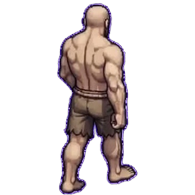
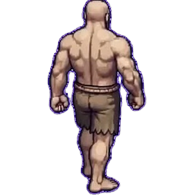
BUILD 418: NE mirrors working NW art (0c sheet did not work as NE)

diff --git a/index.html b/index.html
@@ -1,1 +1,1 @@
-<!doctype html><html lang="en"><head><!-- BUILD309-VIEWPORT-FIX-MARKER --><meta charset="UTF-8"><meta name="viewport" content="width=device-width, initial-scale=1.0, maximum-scale=1.0, user-scalable=no"><meta name="theme-color" content="#17362e"><link rel="icon" type="image/svg+xml" href="favicon.svg"><meta name="description" content="Explore Mosslight Crossing in the Adventure Game field journal."><title>Adventure Game — Mosslight Crossing</title></head><body><div id="root"></div><script>window.__AG_BUILD="417";(function(){var shown=false;function code(m){var h=0,s=window.__AG_BUILD+"|"+m;for(var i=0;i<s.length;i++){h=(Math.imul(h,31)+s.charCodeAt(i))|0;}return "AG"+window.__AG_BUILD+"-"+(h>>>0).toString(36).toUpperCase().padStart(6,"0").slice(-5);}function show(m,k){if(shown||window.__agBooted)return;shown=true;var d=document.createElement("div");d.id="ag-boot-crash";var p=document.createElement("div");p.className="ag-boot-panel";var t=document.createElement("div");t.className="ag-boot-title";t.textContent="\u26a0 GAME FAILED TO START";var c=document.createElement("div");c.className="ag-boot-code";c.textContent=code(String(m));var g=document.createElement("div");g.className="ag-boot-msg";g.textContent=String(m).slice(0,300);var n=document.createElement("div");n.className="ag-boot-kind";n.textContent=k;var b=document.createElement("button");b.textContent="Reload game";b.onclick=function(){location.reload();};p.appendChild(t);p.appendChild(c);p.appendChild(g);p.appendChild(n);p.appendChild(b);d.appendChild(p);document.body.appendChild(d);}window.addEventListener("error",function(e){if(e.target&&e.target!==window)return;show(e.message||"script error","boot error");},true);window.addEventListener("unhandledrejection",function(e){var r=e.reason;show((r&&(r.message||r))||"rejection","boot rejection");});setTimeout(function(){if(!window.__agBooted)show("The game did not finish loading in time.","load timeout");},20000);})();</script><style>#ag-boot-crash{position:fixed;inset:0;z-index:99999;background:#0d1a16;display:flex;align-items:center;justify-content:center;padding:24px}#ag-boot-crash .ag-boot-panel{max-width:420px;width:100%;background:#14261f;border:1px solid #2c4a3e;border-radius:12px;padding:24px;text-align:center;color:#e8f0e9;font-family:system-ui,sans-serif}#ag-boot-crash .ag-boot-title{font-size:20px;font-weight:800;letter-spacing:.5px}#ag-boot-crash .ag-boot-code{font-family:monospace;font-size:22px;color:#ffd75e;margin:12px 0;letter-spacing:1px}#ag-boot-crash .ag-boot-msg{font-size:13px;color:#b9c9bd;word-break:break-word}#ag-boot-crash .ag-boot-kind{font-size:11px;color:#7d8f83;margin-top:8px;text-transform:uppercase;letter-spacing:1px}#ag-boot-crash button{margin-top:16px;background:#e8a33d;border:0;border-radius:8px;padding:10px 22px;font-size:15px;font-weight:700;color:#231603;cursor:pointer}</style><script type="module" src="/src/main.tsx"></script></body></html>
+<!doctype html><html lang="en"><head><!-- BUILD309-VIEWPORT-FIX-MARKER --><meta charset="UTF-8"><meta name="viewport" content="width=device-width, initial-scale=1.0, maximum-scale=1.0, user-scalable=no"><meta name="theme-color" content="#17362e"><link rel="icon" type="image/svg+xml" href="favicon.svg"><meta name="description" content="Explore Mosslight Crossing in the Adventure Game field journal."><title>Adventure Game — Mosslight Crossing</title></head><body><div id="root"></div><script>window.__AG_BUILD="418";(function(){var shown=false;function code(m){var h=0,s=window.__AG_BUILD+"|"+m;for(var i=0;i<s.length;i++){h=(Math.imul(h,31)+s.charCodeAt(i))|0;}return "AG"+window.__AG_BUILD+"-"+(h>>>0).toString(36).toUpperCase().padStart(6,"0").slice(-5);}function show(m,k){if(shown||window.__agBooted)return;shown=true;var d=document.createElement("div");d.id="ag-boot-crash";var p=document.createElement("div");p.className="ag-boot-panel";var t=document.createElement("div");t.className="ag-boot-title";t.textContent="\u26a0 GAME FAILED TO START";var c=document.createElement("div");c.className="ag-boot-code";c.textContent=code(String(m));var g=document.createElement("div");g.className="ag-boot-msg";g.textContent=String(m).slice(0,300);var n=document.createElement("div");n.className="ag-boot-kind";n.textContent=k;var b=document.createElement("button");b.textContent="Reload game";b.onclick=function(){location.reload();};p.appendChild(t);p.appendChild(c);p.appendChild(g);p.appendChild(n);p.appendChild(b);d.appendChild(p);document.body.appendChild(d);}window.addEventListener("error",function(e){if(e.target&&e.target!==window)return;show(e.message||"script error","boot error");},true);window.addEventListener("unhandledrejection",function(e){var r=e.reason;show((r&&(r.message||r))||"rejection","boot rejection");});setTimeout(function(){if(!window.__agBooted)show("The game did not finish loading in time.","load timeout");},20000);})();</script><style>#ag-boot-crash{position:fixed;inset:0;z-index:99999;background:#0d1a16;display:flex;align-items:center;justify-content:center;padding:24px}#ag-boot-crash .ag-boot-panel{max-width:420px;width:100%;background:#14261f;border:1px solid #2c4a3e;border-radius:12px;padding:24px;text-align:center;color:#e8f0e9;font-family:system-ui,sans-serif}#ag-boot-crash .ag-boot-title{font-size:20px;font-weight:800;letter-spacing:.5px}#ag-boot-crash .ag-boot-code{font-family:monospace;font-size:22px;color:#ffd75e;margin:12px 0;letter-spacing:1px}#ag-boot-crash .ag-boot-msg{font-size:13px;color:#b9c9bd;word-break:break-word}#ag-boot-crash .ag-boot-kind{font-size:11px;color:#7d8f83;margin-top:8px;text-transform:uppercase;letter-spacing:1px}#ag-boot-crash button{margin-top:16px;background:#e8a33d;border:0;border-radius:8px;padding:10px 22px;font-size:15px;font-weight:700;color:#231603;cursor:pointer}</style><script type="module" src="/src/main.tsx"></script></body></html>

diff --git a/scripts/simulate.ts b/scripts/simulate.ts
@@ -3213,11 +3213,12 @@ import { inflateSync } from 'node:zlib';
     readPngRgba(`public/barbarian/${file}`); // must exist and decode
   }
   // BUILD 414: dedicated up-right/up-left diagonal art. bare/blue/bow gain
-  // BUILD 416: true diagonal art from the user's sheets. bare/blue/bow gain
-  // dedicated upright (NE, back-3/4) + upleft (NW, back-3/4) views, each with
-  // 9 walk frames + 1 idle; attacks still share the up frames (no diagonal
-  // attack sheets provided). The renderer selects them per-anim with fallback
-  // to up; sword has no diagonal art and must fall back to its up frames.
+  // BUILD 418: diagonal art. bare/blue/bow have a dedicated NW (upleft,
+  // back-3/4) view from the user's sheet (9 walk + 1 idle); NE (upright) is
+  // the exact horizontal mirror of NW (same convention as left/right).
+  // Attacks share the up frames (no diagonal attack sheets provided).
+  // The renderer selects them per-anim with fallback to up; sword has no
+  // diagonal art and must fall back to its up frames.
   {
     const { BARB_FRAMES, BARB_BOX } = await import('../src/game/iso/barbarian');
     for (const v of ['bare', 'blue', 'bow']) {
@@ -3240,6 +3241,18 @@ import { inflateSync } from 'node:zlib';
         `${v} must have upright/upleft layout boxes`);
       for (const f of [...ur['walk'], ...ul['walk'], ...ur['idle'], ...ul['idle']])
         readPngRgba(`public/${f}`);
+      // Pixel lock: NE frames are the horizontal mirror of the NW frames.
+      for (let i = 0; i < 9; i++) {
+        const a = readPngRgba(`public/barbarian/${v}_upleft_walk_${i}.png`);
+        const b = readPngRgba(`public/barbarian/${v}_upright_walk_${i}.png`);
+        assert(a.w === b.w && a.h === b.h, `${v}_upright_walk_${i}.png size mismatch`);
+        let bad = 0;
+        for (let y = 0; y < a.h && bad < 5; y++) for (let x = 0; x < a.w; x++) {
+          const ia = (y * a.w + x) * 4, ib = (y * b.w + (b.w - 1 - x)) * 4;
+          for (let k = 0; k < 4; k++) if (a.px[ia + k] !== b.px[ib + k]) { bad++; break; }
+        }
+        assert(bad === 0, `${v}_upright_walk_${i}.png is not the mirror of ${v}_upleft_walk_${i}.png`);
+      }
     }
     assert(!BARB_FRAMES['sword']?.['upright'] && !BARB_FRAMES['sword']?.['upleft'],
       'sword has no diagonal art — it must fall back to the up view');

diff --git a/src/game/iso/barbarian.ts b/src/game/iso/barbarian.ts
@@ -88,7 +88,7 @@ export const BARB_BOX: Record<string, Record<string, {w:number;h:number;head:[nu
     right: { w: 195, h: 195, head: [95, 9], idleH: 186 },
     left: { w: 195, h: 195, head: [94, 9], idleH: 186 },
     up: { w: 195, h: 195, head: [98, 2], idleH: 193 },
-    upright: { w: 195, h: 195, head: [93, 3], idleH: 193 },  // BUILD 416: true NE art
+    upright: { w: 195, h: 195, head: [93, 2], idleH: 193 },  // BUILD 418: NE mirrors NW art
     upleft: { w: 195, h: 195, head: [101, 2], idleH: 193 },  // BUILD 416: true NW art
   },
   blue: {
@@ -97,7 +97,7 @@ export const BARB_BOX: Record<string, Record<string, {w:number;h:number;head:[nu
     right: { w: 195, h: 195, head: [95, 9], idleH: 186 },
     left: { w: 195, h: 195, head: [94, 9], idleH: 186 },
     up: { w: 195, h: 195, head: [98, 2], idleH: 193 },
-    upright: { w: 195, h: 195, head: [93, 3], idleH: 193 },  // BUILD 416: true NE art
+    upright: { w: 195, h: 195, head: [93, 2], idleH: 193 },  // BUILD 418: NE mirrors NW art
     upleft: { w: 195, h: 195, head: [101, 2], idleH: 193 },  // BUILD 416: true NW art
   },
   sword: {
@@ -113,7 +113,7 @@ export const BARB_BOX: Record<string, Record<string, {w:number;h:number;head:[nu
     right: { w: 195, h: 195, head: [95, 9], idleH: 186 },
     left: { w: 195, h: 195, head: [94, 9], idleH: 186 },
     up: { w: 195, h: 195, head: [98, 2], idleH: 193 },
-    upright: { w: 195, h: 195, head: [93, 3], idleH: 193 },  // BUILD 416: true NE art
+    upright: { w: 195, h: 195, head: [93, 2], idleH: 193 },  // BUILD 418: NE mirrors NW art
     upleft: { w: 195, h: 195, head: [101, 2], idleH: 193 },  // BUILD 416: true NW art
   },
 };
